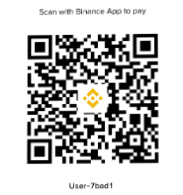
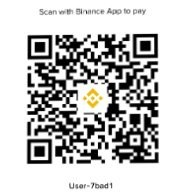
feat: smart auto-switch to Binance Pay QR when USD is selected, update Binance image, and prevent interaction timeouts

Changed region(s): [[0.4372, 0.4308, 0.5738, 0.5846]]

diff --git a/handlers/purchaseFlow.js b/handlers/purchaseFlow.js
@@ -213,15 +213,18 @@ class PurchaseFlow {
       interaction.customId?.startsWith('shop_select_preview_currency_') ||
       (interaction.isButton() && interaction.customId.startsWith('back_to_product_'))
     ) {
-      await interaction.update({
+      if (!interaction.deferred && !interaction.replied) {
+        await interaction.deferUpdate();
+      }
+      await interaction.editReply({
         embeds: [embed],
         components: rows
       });
     } else if (!interaction.replied && !interaction.deferred) {
-      await interaction.reply({
+      await interaction.deferReply({ ephemeral: true });
+      await interaction.editReply({
         embeds: [embed],
-        components: rows,
-        ephemeral: true
+        components: rows
       });
     } else {
       await interaction.followUp({
@@ -253,6 +256,12 @@ class PurchaseFlow {
       };
     }
 
+    const defaultCurr = db.getDefaultCurrency();
+    let initialMethod = 'binance';
+    if (defaultCurr === 'INR') initialMethod = 'upi';
+    else if (defaultCurr === 'NPR') initialMethod = 'esewa';
+    else if (defaultCurr === 'USD') initialMethod = 'binance';
+
     // Create Order in DB
     const order = db.createOrder({
       userId: interaction.user.id,
@@ -264,8 +273,8 @@ class PurchaseFlow {
       durationDays: plan.durationDays || 30,
       amount: plan.price,
       currency: plan.currency || '₹',
-      selectedCurrency: db.getDefaultCurrency(),
-      paymentMethod: 'upi',
+      selectedCurrency: defaultCurr,
+      paymentMethod: initialMethod,
       deliveryType: product.deliveryType || 'keyauth'
     });
 
@@ -288,7 +297,7 @@ class PurchaseFlow {
           ephemeral: true
         });
 
-        await this.sendPaymentScreenToChannel(ticketChannel, order, 'upi');
+        await this.sendPaymentScreenToChannel(ticketChannel, order, initialMethod, defaultCurr);
         return;
       } catch (ticketErr) {
         console.error('Failed to create ticket channel, falling back to direct:', ticketErr);
@@ -296,7 +305,7 @@ class PurchaseFlow {
     }
 
     // DIRECT NO-TICKET METHOD: Render the payment screen with QR code & toggles directly in this channel (ephemeral)
-    await this.renderPaymentScreen(interaction, order.id, 'upi');
+    await this.renderPaymentScreen(interaction, order.id, initialMethod, defaultCurr);
   }
 
   /**
@@ -645,7 +654,10 @@ class PurchaseFlow {
     const components = [currencyRow, toggleRow, actionRow];
 
     if (interaction.isButton() || interaction.isStringSelectMenu()) {
-      await interaction.update({
+      if (!interaction.deferred && !interaction.replied) {
+        await interaction.deferUpdate();
+      }
+      await interaction.editReply({
         embeds: [embed],
         components,
         files: files || []
@@ -657,11 +669,11 @@ class PurchaseFlow {
         files: files || []
       });
     } else {
-      await interaction.reply({
+      await interaction.deferReply({ ephemeral: true });
+      await interaction.editReply({
         embeds: [embed],
         components,
-        files: files || [],
-        ephemeral: true
+        files: files || []
       });
     }
   }

diff --git a/handlers/interactionHandler.js b/handlers/interactionHandler.js
@@ -122,7 +122,12 @@ class InteractionHandler {
       const currency = raw.substring(lastUnderscore + 1) || defaultCurr;
 
       const order = require('../database/db').getOrder(orderId);
-      const method = order ? (order.paymentMethod || 'upi') : 'upi';
+      let method = order ? (order.paymentMethod || 'binance') : 'binance';
+
+      // Smart auto-switch payment method to match currency!
+      if (currency === 'USD') method = 'binance';
+      else if (currency === 'NPR') method = 'esewa';
+      else if (currency === 'INR') method = 'upi';
 
       await purchaseFlow.renderPaymentScreen(interaction, orderId, method, currency);
     } else if (customId.startsWith('shop_select_preview_currency_')) {
@@ -147,7 +152,14 @@ class InteractionHandler {
       await purchaseFlow.handlePlanSelection(interaction, productId, planKey);
     } else if (customId.startsWith('pay_now_')) {
       const orderId = customId.replace('pay_now_', '');
-      await purchaseFlow.renderPaymentScreen(interaction, orderId, 'upi');
+      const order = require('../database/db').getOrder(orderId);
+      const defaultCurr = require('../database/db').getDefaultCurrency();
+      const curr = order?.selectedCurrency || defaultCurr;
+      let initialMethod = 'binance';
+      if (curr === 'INR') initialMethod = 'upi';
+      else if (curr === 'NPR') initialMethod = 'esewa';
+      else if (curr === 'USD') initialMethod = 'binance';
+      await purchaseFlow.renderPaymentScreen(interaction, orderId, initialMethod, curr);
     } else if (customId.startsWith('toggle_pay_')) {
       // format: toggle_pay_{orderId}_{method}
       const raw = customId.replace('toggle_pay_', '');
